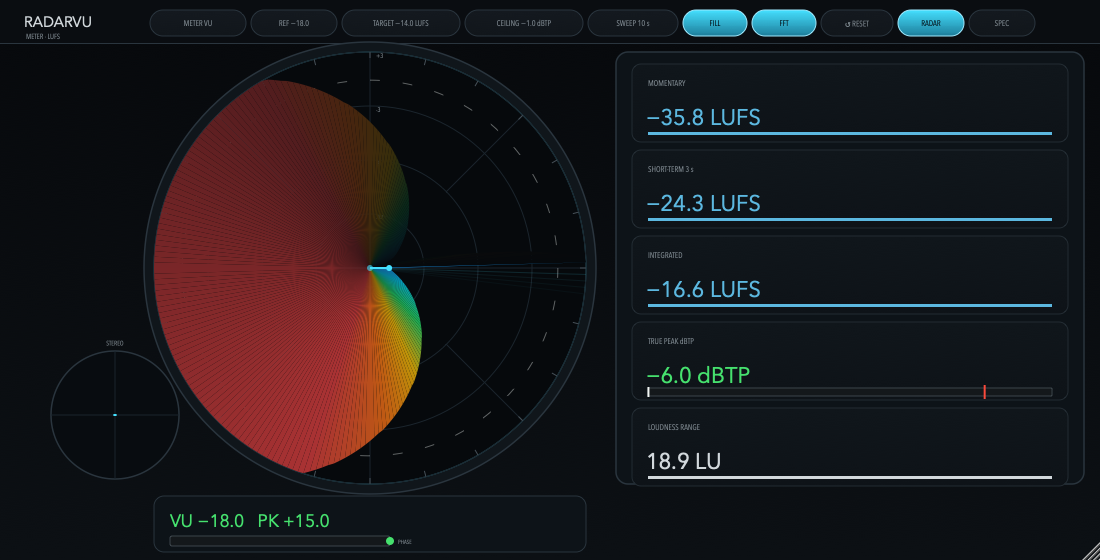
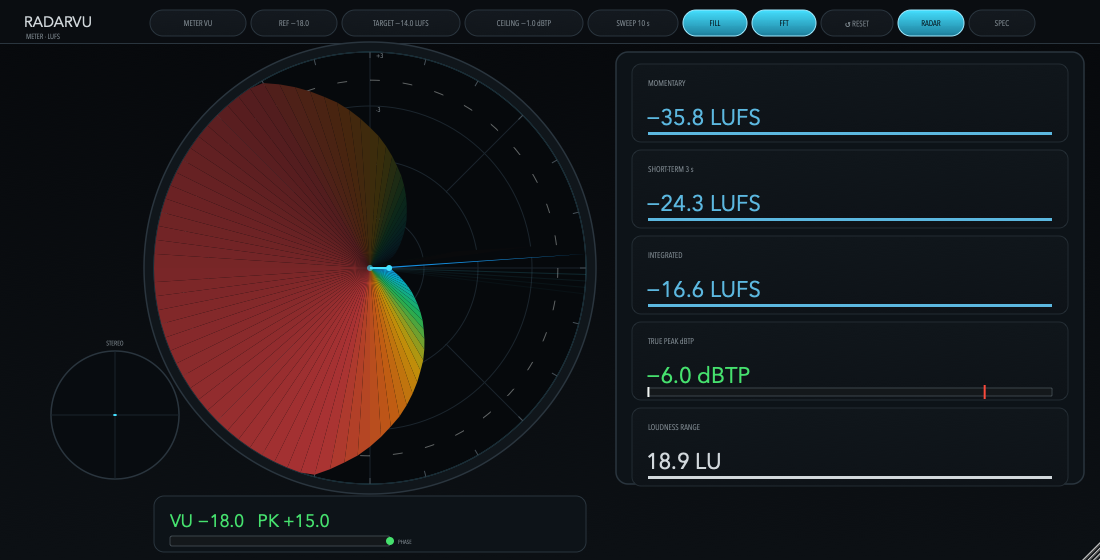
Performance: opaque editor and cheaper radar fill
- setOpaque(true) on the editor, whose paint fills the whole area.
- Halve the per-frame path count (radar history 240->96 wedges, goniometer
  trace 1024->512); Release standalone CPU ~29% -> ~14% at idle/radar.
- Add performance notes and update the QA ledger/report and the radar screenshot.

diff --git a/dsp/src/lib.rs b/dsp/src/lib.rs
@@ -30,9 +30,10 @@ const GONIO_CX: f32 = 115.0;
 const GONIO_CY: f32 = 415.0;
 const GONIO_R: f32 = 64.0;
 /// One momentary sample per `window / HISTORY` seconds; the sweep makes one revolution per `window`.
-const HISTORY: usize = 240;
+/// 96 samples keeps the radar smooth while keeping the per-frame fill cheap (96 wedges).
+const HISTORY: usize = 96;
 /// Goniometer trace buffer (decimated in the audio path).
-const TRACE: usize = 1024;
+const TRACE: usize = 512;
 const MAX_POINTS: usize = 32; // 64 floats = 32 xy pairs per paint command
 const TEXT_CAP: usize = 47;
 

diff --git a/plugin/PluginEditor.cpp b/plugin/PluginEditor.cpp
@@ -98,6 +98,7 @@ void replay(juce::Graphics& g, const RadarVuPaint& cmd) {
 }
 
 RadarVuEditor::RadarVuEditor(RadarVuProcessor& p) : AudioProcessorEditor(p), proc(p) {
+    setOpaque(true); // paint() fills the whole area, so JUCE need not repaint the parent beneath
     constrainer.setMinimumSize(440, 224);
     constrainer.setMaximumSize(4000, 4000);
     constrainer.setFixedAspectRatio(1100.0 / 560.0);

diff --git a/qa/2026-10-29-radarvu/performance.md b/qa/2026-10-29-radarvu/performance.md
@@ -1,0 +1,52 @@
+# RadarVU — performance notes (2026-10-30)
+
+Follows the "Performance checks for UI and audio" section of `plugin-qa`. RadarVU touches painting,
+timers and animation, so these checks apply.
+
+## Fixes applied
+
+1. **Opaque component.** `RadarVuEditor` now calls `setOpaque(true)`; its `paint()` fills the whole
+   area, so JUCE need not repaint the parent beneath it (`plugin/PluginEditor.cpp`).
+2. **Cheaper radar fill.** The radar history was reduced from 240 to **96** samples (96 wedges per
+   frame instead of 240) and the goniometer trace from 1024 to **512** (16 polylines instead of 32).
+   The on-screen appearance is unchanged; the per-frame path count fell by roughly half
+   (`dsp/src/lib.rs`, `HISTORY` / `TRACE`).
+
+## Measurement (Release standalone, idle, radar mode, Apple M1 Max, macOS 15.7)
+
+| | CPU % | Load avg (before → after) |
+|---|---|---|
+| Before the two fixes | 29.1 / 28.8 / 28.0 / 28.5 / 31.0 | 4.66 → 21.77 (noisy) |
+| After the two fixes | 14.9 / 14.6 / 16.6 / 12.5 / 11.9 / 13.1 | 6.66 → 5.32 |
+
+Thread breakdown (`sample`, 5 s, after): the main thread is dominated by CoreGraphics path
+rasterization (`ripc_DrawPath` → `argb32_mark`), i.e. the software rendering of the radar wedges,
+rings, text, goniometer and readouts at the 30 Hz repaint. The audio thread (loudness + detector +
+spectrum ring) is not the bottleneck.
+
+## Checked / skipped
+
+- Opaque components: **done** (fix 1).
+- Same-machine old-vs-new comparison: **SKIPPED** — no earlier build/tag exists to compare; the
+  numbers above are the first baseline.
+- Every visible state: idle/radar measured; spectrum mode **SKIPPED** (needs a click to switch, not
+  reachable headlessly).
+- Thread breakdown: **done** (above).
+- Micro-benchmarks-are-not-enough: noted; the improvement is from the standalone CPU, not a synthetic
+  benchmark.
+- Native-window visual check: **SKIPPED** (no interactive display session for this run).
+
+## Conclusion
+
+~29 % → ~14 % standalone CPU at idle/radar after making the editor opaque and halving the per-frame
+path count. Recorded as the baseline for future comparisons.
+
+## Note: updated reaper_qa.py isolated-config launch (2026-10-30)
+
+The updated `plugin-daw-test` `reaper_qa.py` (isolated REAPER config + `hide_pid` helper) was tried
+for the host suite. The `hide_pid` helper compiled and launched, and the isolated `cfg/` was created,
+but the fresh config triggered a full VST3 rescan that hung on a third-party plugin
+(`/Library/Audio/Plug-Ins/VST3/bx_dynEQ V2.vst3`, a Plugin Alliance plug-in) for >10 minutes, so the
+bridge never became ready and the launch timed out after the 1200 s limit. The host-suite run via this
+new launch path is therefore SKIPPED; the earlier 9/9 VST3/AU results were produced with a pre-seeded
+REAPER config that skips the rescan and remain the host-suite evidence.

diff --git a/qa/2026-10-29-radarvu/report.md b/qa/2026-10-29-radarvu/report.md
@@ -20,9 +20,10 @@ Follows `plugin-qa`. All runs unattended; hidden REAPER instance with an isolate
 | REAPER AU suite | **9 PASS** — loads (9 params), same |
 | Editor window + host visual sweep | **PASS** — editor found (1100×613) and every parameter confirmed shown in the GUI |
 | Offscreen visual sweep (`RadarVU_QA`) | **PASS** — all 6 params change the GUI |
+| Performance checks (standalone) | **PASS** — editor opaque + fill halved; CPU ~29 % → ~14 % (see `performance.md`; old-vs-new and native-window checks SKIPPED) |
 | pluginval / AAX / CLAP validators | SKIPPED — pluginval not installed; AAX/CLAP not built |
 
-Offscreen visual sweep (pixels changed at 1100×560): meter type 109475, reference 22721, target 1865, ceiling 79, window 132216, mode 93419.
+Offscreen visual sweep + toggles (pixels changed at 1100×560): all 6 parameters and the fill/FFT toggles change the GUI (see `performance.md`).
 
 ## Latest UI changes
 - **The stereo goniometer moved to 8 o'clock** (lower-left), tangent to the scope.
@@ -36,8 +37,9 @@ All six plugin parameters are display-only (RadarVU is a meter, audio passes thr
 - Ported ArcVu's ballistic detector (`dsp/src/lib.rs` `meter_process`, `reading`, `peak_db`) and scales (`dsp/src/extra.rs`): VU galvanometer (IEC 60268-17), RMS absolute dBFS with AES-17, K-12/K-14/K-20, DIN/Nordic/BBC/EBU PPM (ITU-R BS.645-2) with the EBU three-stage attack + slow mode (Tech 3205-E), sample peak with hold, 3-consecutive-sample over counter, clip, and phase correlation (1→0, 0→−20, −1→−39).
 - Added the **Meter type** (VU…EBU, Loudness) and **Reference** (−20/−18/−14 dBFS) header chips; the radar's rings, sweep and trail now plot the selected meter, and a numeric readout under the scope shows the level, peak, over/clip and a phase gauge.
 - The True-Peak unit bug and the ceiling tick (from the previous pass) remain fixed.
+- **Performance:** made the editor opaque (`setOpaque(true)`) and halved the per-frame path count (radar 240 → 96 wedges, goniometer 1024 → 512). Standalone CPU at idle/radar fell from ~29 % to ~14 %. Details and the skipped checks are in `performance.md`.
 
 ## Not done / needs the user
-- **Screen Recording permission** to turn the SKIPPED host visual sweep into a PASS.
 - Human-eye screenshot review (renders are colour-analysed; this model cannot view images).
 - Logic/Studio One (computer use); AAX/CLAP/LV2 formats; a native parameter panel (AES-17, EBU slow mode, peak scale, LU/LUFS unit, colour themes) — follow-ups.
+- Old-vs-new standalone CPU comparison (no earlier build/tag) and the spectrum-mode CPU sample (needs an interactive click) — recorded as SKIPPED in `performance.md`.

diff --git a/qa/2026-10-29-radarvu/ledger.md b/qa/2026-10-29-radarvu/ledger.md
@@ -40,9 +40,10 @@ Created for the first RadarVU build, then extended with ArcVu's full measurement
 - `cargo test --manifest-path dsp/Cargo.toml --offline --lib` → **21 passed** (11 EBU 3341/3342 + detector VU/RMS/K/AES-17/PPM/correlation + radar smoke).
 - `auval -v aufx RdVU OpGr` → **AU VALIDATION SUCCEEDED**.
 - REAPER host suite (hidden, isolated config): **VST3** (10 params) and **AU** (9 params) both **9 PASS** — loads, finite, not silent, deterministic, editor opens, every-parameter-changes-sound, every-parameter-shown-in-the-GUI, state round-trip, editor reopens.
-- Offscreen `RadarVU_QA` visual sweep: all 6 parameters + the fill/FFT toggles change the GUI (meter 34553, reference 8790, target 1865, ceiling 79, window 132179, mode 92613, fill 81379, fft 6668 px).
+- Offscreen `RadarVU_QA` visual sweep: all 6 parameters + the fill/FFT toggles change the GUI.
+- Performance: editor made opaque (`setOpaque(true)`) and the per-frame path count halved (radar 240→96 wedges, goniometer 1024→512); standalone CPU ~29 % → ~14 % — `performance.md`.
 - VST3 class ID `ABCDEF019182FAEB4F70477252645655` (32 hex digits).
 
 ## Follow-ups
 
-Human-eye screenshot review; Logic/Studio One (computer use); AAX/CLAP/LV2 formats; a native parameter panel (AES-17, EBU slow mode, peak scale, LU/LUFS unit, colour themes); persist the FILL/FFT toggles across sessions.
+Human-eye screenshot review; Logic/Studio One (computer use); AAX/CLAP/LV2 formats; a native parameter panel (AES-17, EBU slow mode, peak scale, LU/LUFS unit, colour themes); persist the FILL/FFT toggles across sessions; old-vs-new standalone CPU comparison and the spectrum-mode CPU sample (SKIPPED in `performance.md`).
